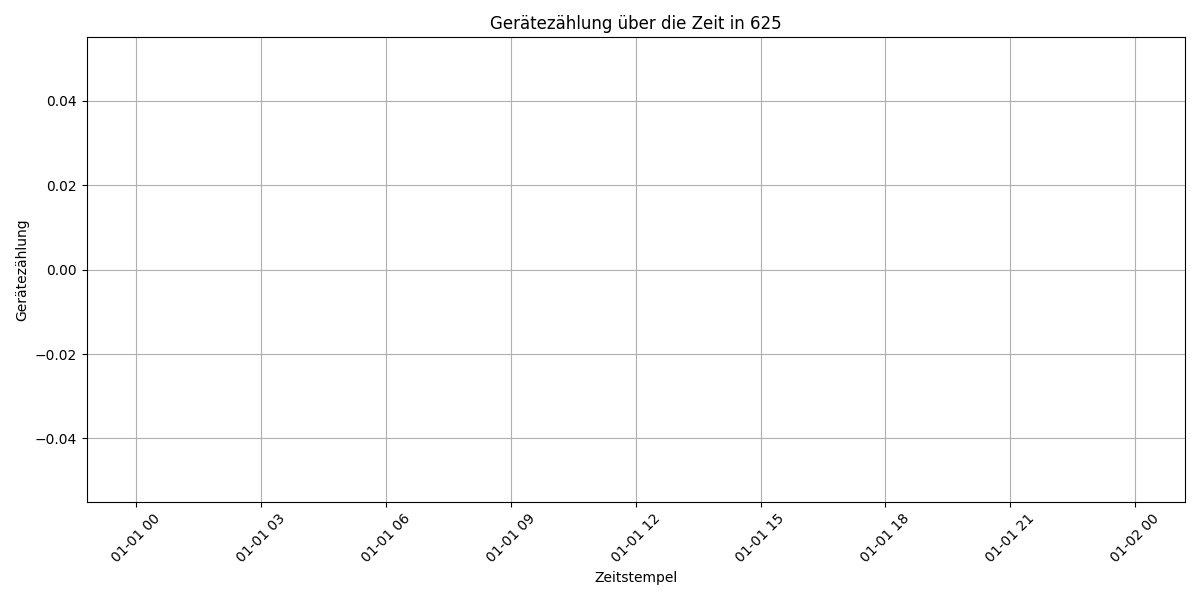
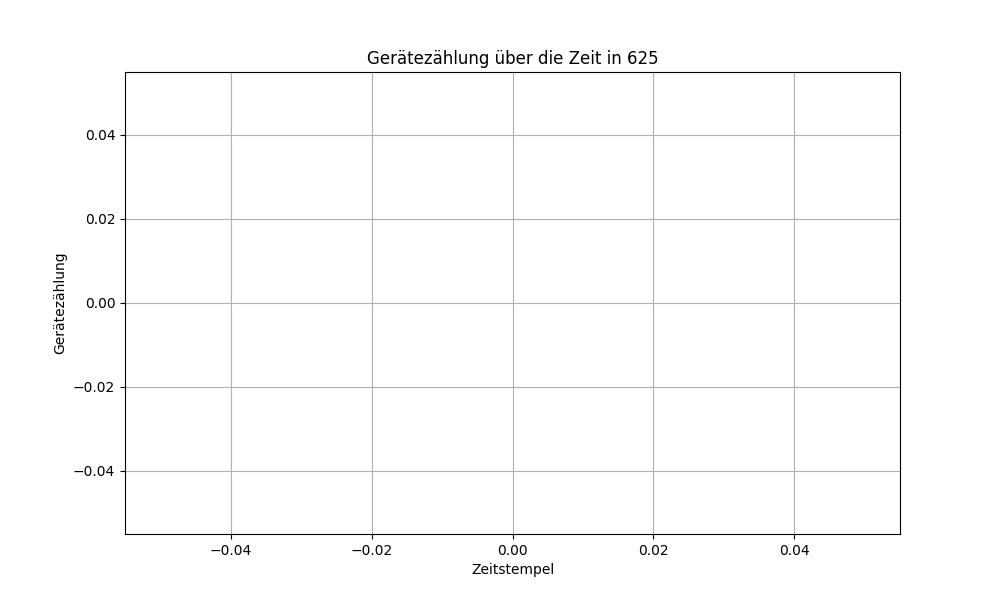
Datenbereinigung und Filterung von Mo-Fr(8-18) im code

diff --git a/Räume/.ipynb_checkpoints/data_analysis-checkpoint.py b/Räume/.ipynb_checkpoints/data_analysis-checkpoint.py
@@ -3,42 +3,16 @@ import matplotlib.pyplot as plt
 import os
 
 def load_data(file_path):
-    # CSV-Datei laden
-    data = pd.read_csv(file_path, skiprows=[0, 1, 2])  # Überspringe die ersten drei Zeilen mit Metadaten
-
-    # Entferne leere Spalten
-    data = data.dropna(axis=1, how='all')
-
-    # Überprüfen der Anzahl der Spalten
-    print(f"Die Datei enthält {len(data.columns)} Spalten.")
-    print(f"Spaltennamen: {list(data.columns)}")
-
-    # Erwarten wir bestimmte Spaltennamen, oder benennen wir die vorhandenen Spalten
-    expected_columns = ['table', '_start', '_stop', '_time', '_value', '_field', '_measurement', 'room']
-    if len(data.columns) == len(expected_columns):
-        data.columns = expected_columns
-    else:
-        # Wenn die Anzahl der Spalten nicht übereinstimmt, zeigen wir die ersten Zeilen der Datei zur Diagnose an
-        print("Erste Zeilen der CSV-Datei zur Diagnose:")
-        print(data.head())
-        raise ValueError(f"Erwartete {len(expected_columns)} Spalten, aber CSV enthält {len(data.columns)} Spalten.")
-
-    # Konvertiere Datentypen
-    data['table'] = pd.to_numeric(data['table'], errors='coerce')
-    data['_start'] = data['_start'].astype(str)
-    data['_stop'] = data['_stop'].astype(str)
-    data['_time'] = pd.to_datetime(data['_time'], errors='coerce')
-    data['_value'] = pd.to_numeric(data['_value'], errors='coerce')
-    data['_field'] = data['_field'].astype(str)
-    data['_measurement'] = data['_measurement'].astype(str)
-    data['room'] = data['room'].astype(str)
-
+    # Daten laden
+    data = pd.read_csv(file_path, parse_dates=['_start', '_stop', '_time'])
+    data.columns = ['result', 'table', '_start', '_stop', '_time', '_value', '_field', '_measurement', 'room']
     return data
+
 def preprocess_data(data):
 
 
-    # '_time' Spalte in datetime konvertieren und Zeitzone korrekt setzen
-    data['_time'] = pd.to_datetime(data['_time'], errors='coerce', utc=True)
+    # '_time' Spalte in datetime konvertieren
+    data['_time'] = pd.to_datetime(data['_time'], errors='coerce')
 
     # '_value' in numerischen Typ konvertieren und Fehler ignorieren
     data['_value'] = pd.to_numeric(data['_value'], errors='coerce')
@@ -64,7 +38,7 @@ def preprocess_data(data):
 
 def filter_data(data):
     # Filterung der Daten auf Montag bis Freitag und 08:00 bis 18:00 Uhr
-    data['_time'] = pd.to_datetime(data['_time'], utc=True).dt.tz_convert('Europe/Berlin')
+    data['_time'] = pd.to_datetime(data['_time'])
     data = data[data['_time'].dt.weekday < 5]  # Montag=0, Sonntag=6
     data = data.between_time('08:00', '18:00')
 
@@ -87,9 +61,12 @@ def plot_data(data, title, plot_file_path):
     plt.figure(figsize=(10, 6))
     plt.plot(data['_time'], data['_value'], marker='o', linestyle='-', color='b')
     plt.title(title)
+    plt.title(title)
     plt.xlabel('Zeitstempel')
     plt.ylabel('Gerätezählung')
     plt.grid(True)
+    plt.xticks(rotation=45)
+    plt.tight_layout()
 
     # Plot speichern
     plt.savefig(plot_file_path)
@@ -115,15 +92,12 @@ def create_monthly_plots(data, output_dir, room):
     data['month'] = data['_time'].dt.to_period('M')
     for month, group in data.groupby('month'):
         plot_title = f'Gerätezählung im {month} in {room}'
-        plot_file_path = f'{output_dir}/geraetezaehlung_{month}.png'
-        plot_data(group, plot_title, plot_file_path)
+    plot_file_path = f'{output_dir}/geraetezaehlung_{month}.png'
+    plot_data(group, plot_title, plot_file_path)
 
 def create_daily_plots(data, output_dir, room):
-    data['date'] = data['_time'].dt.date
-    for date, group in data.groupby('date'):
-        plot_title = f'Gerätezählung am {date} in {room}'
-        plot_file_path = f'{output_dir}/geraetezaehlung_{date}.png'
-        plot_data(group, plot_title, plot_file_path)
+    create_plots_by_period(data, 'YearMonthDay', 'D', output_dir, room,
+                           'Gerätezählung am {period} in Raum {room}', 'geraetezaehlung_{period}.png')
 
 def analyze_room(data, room):
     # Daten für den spezifischen Raum filtern

diff --git a/Räume/main.py b/Räume/main.py
@@ -22,7 +22,7 @@ for key, output_dir in output_dirs.items():
         os.makedirs(output_dir)
 
 for room in rooms:
-    room_data = data[data['Room'] == room]
+    room_data = data[data['room'] == room]
 
     # Daten vorverarbeiten
     room_data = preprocess_data(room_data)
